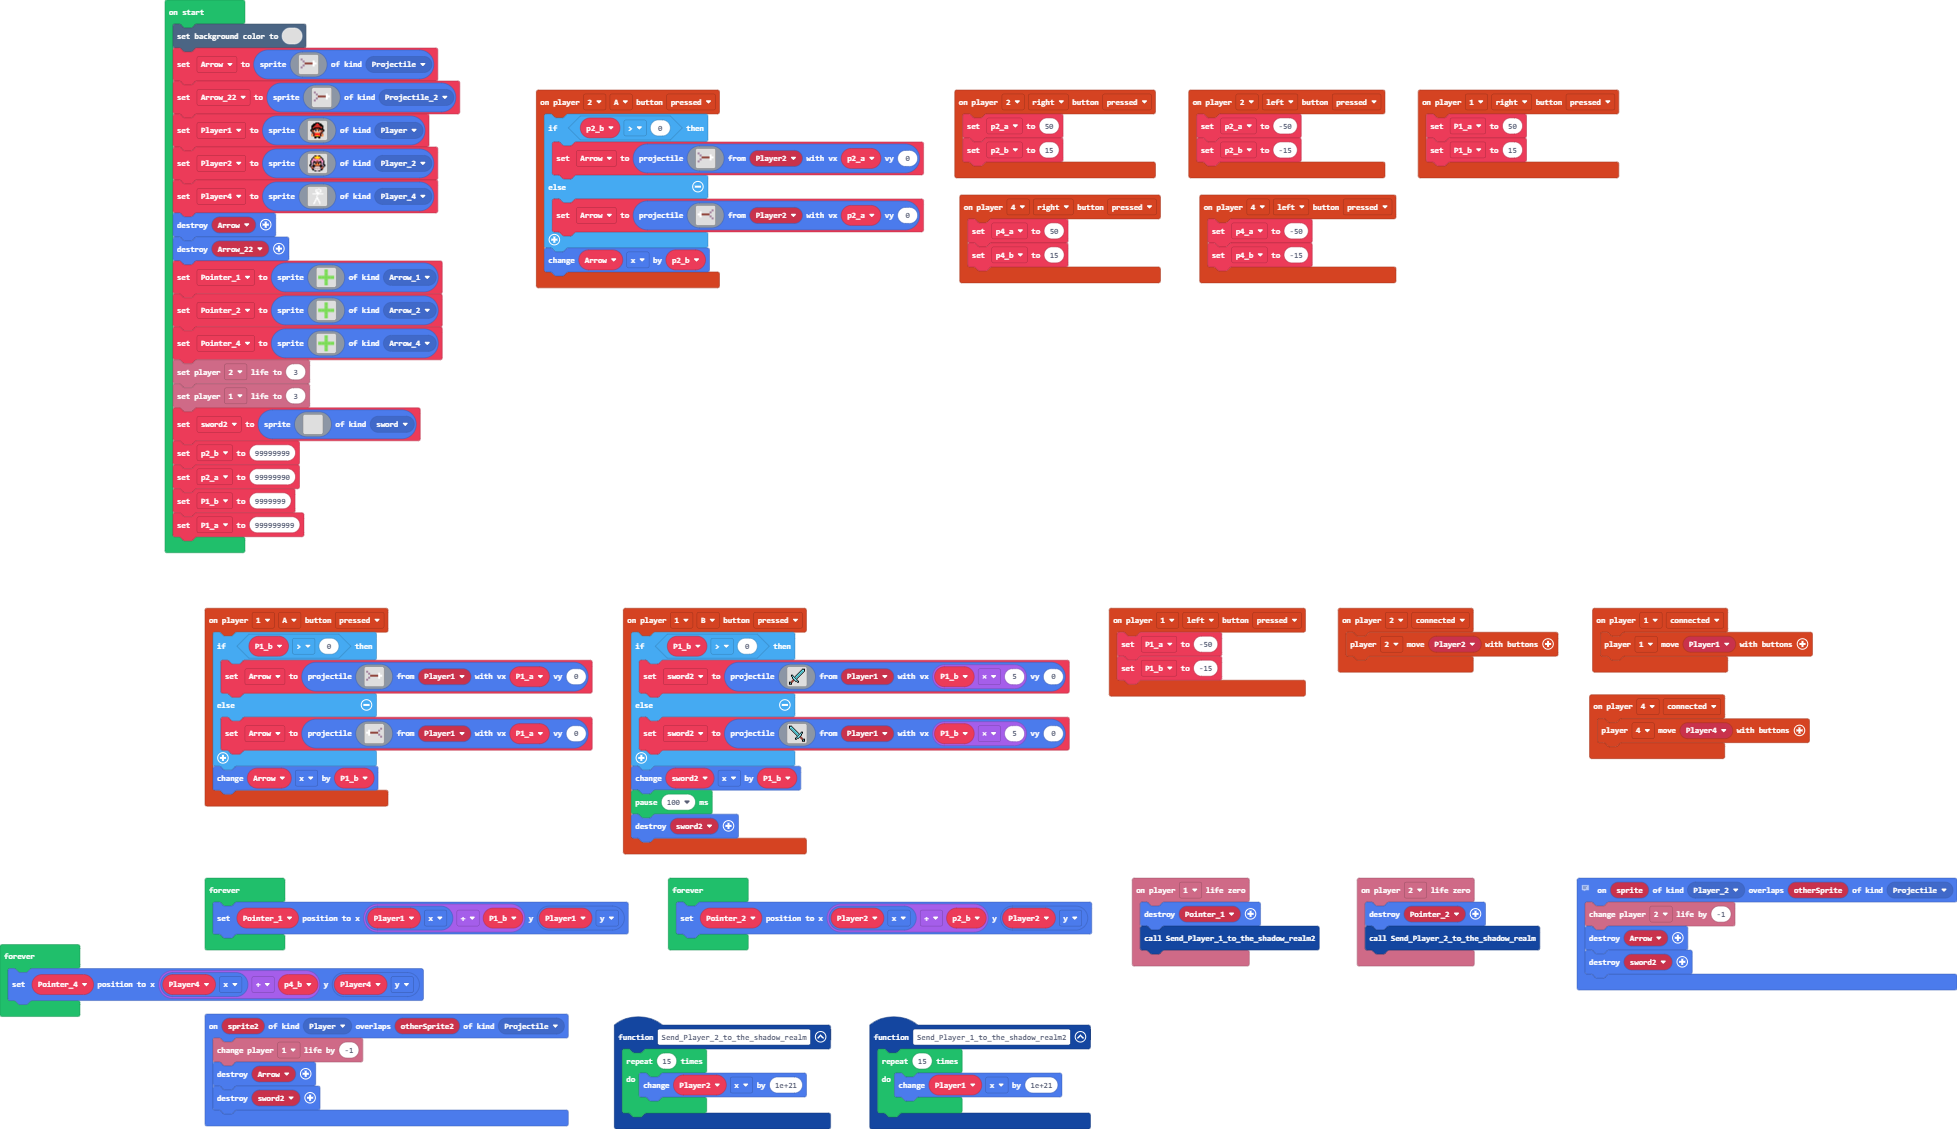
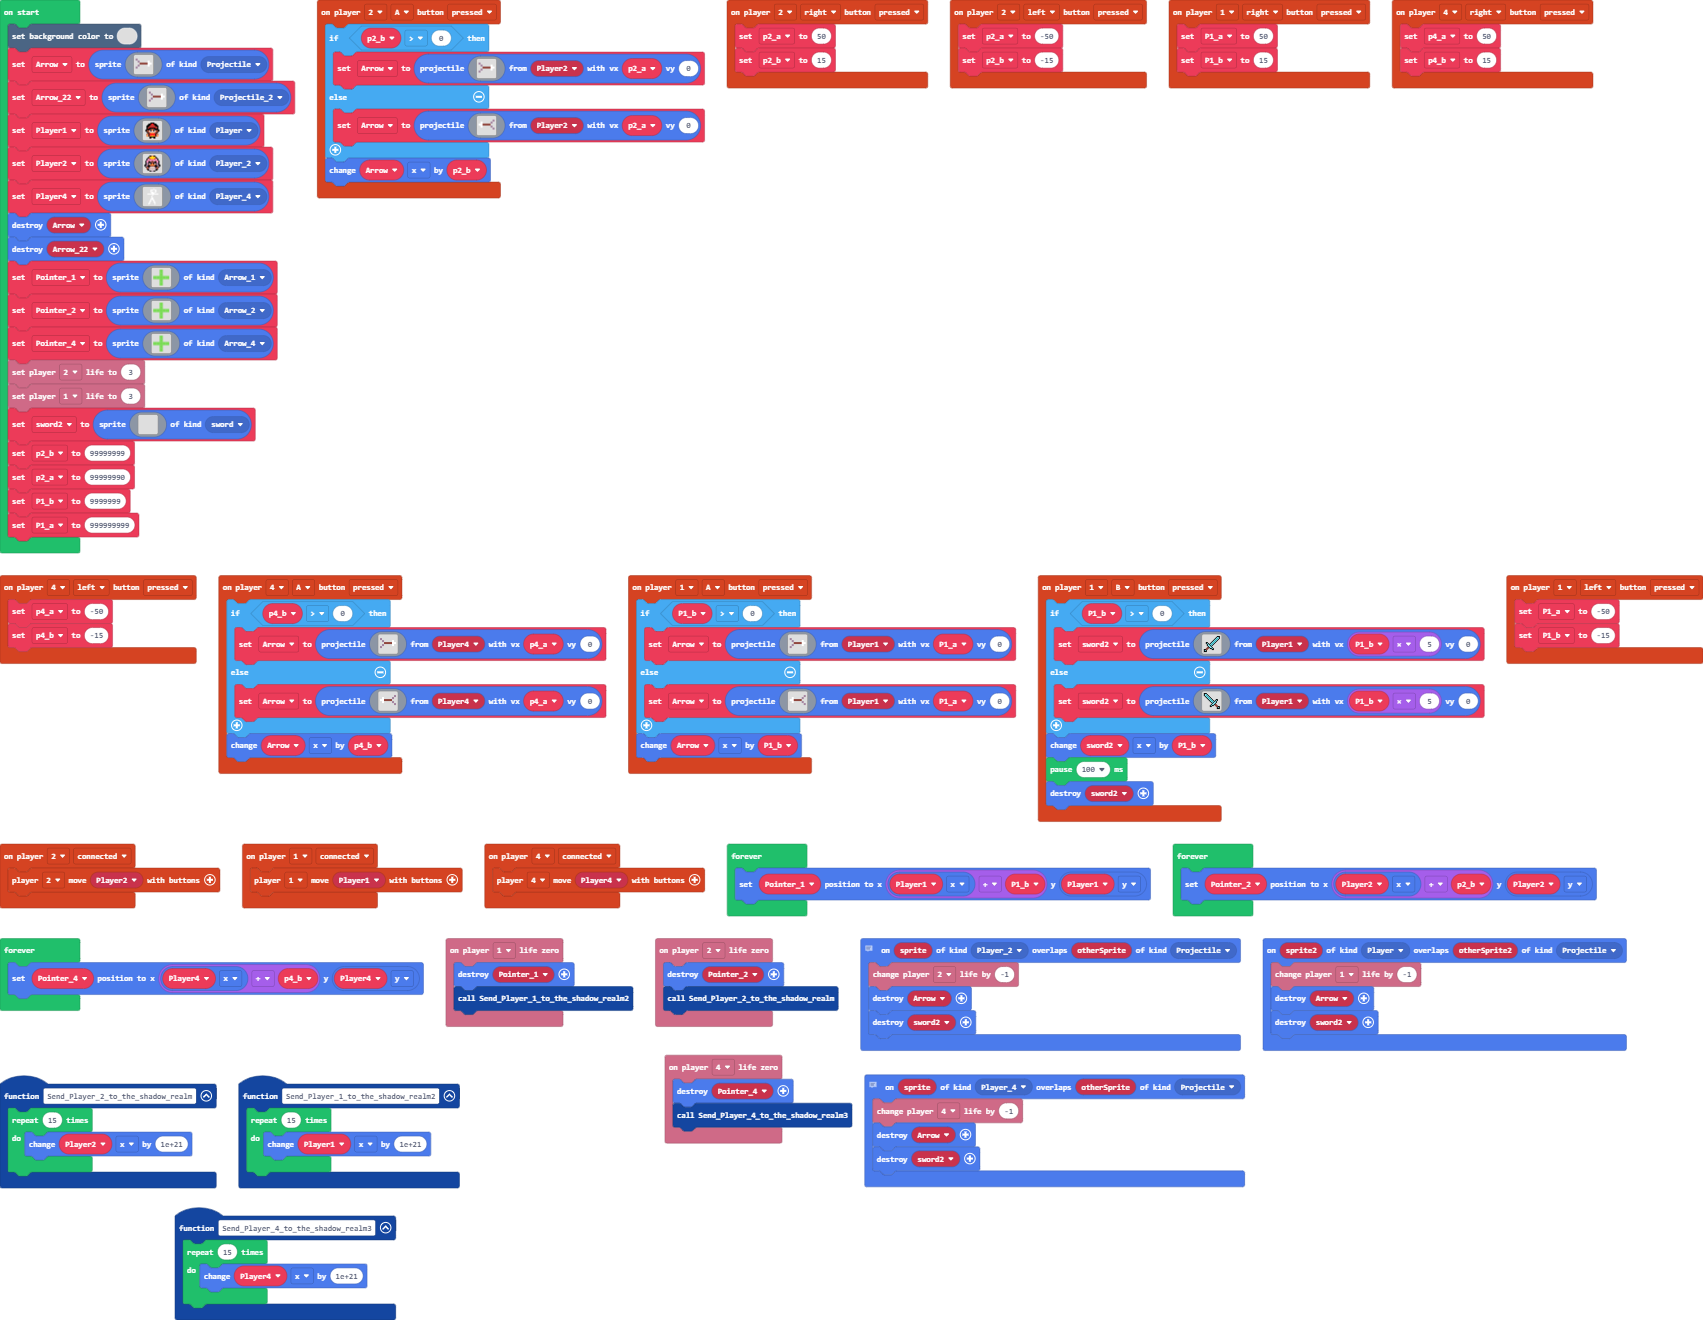
Update main.blocks, main.ts

diff --git a/main.ts b/main.ts
@@ -43,14 +43,29 @@ controller.player2.onButtonEvent(ControllerButton.A, ControllerButtonEvent.Press
     }
     Arrow.x += p2_b
 })
+info.player4.onLifeZero(function () {
+    sprites.destroy(Pointer_4)
+    Send_Player_4_to_the_shadow_realm3()
+})
 function Send_Player_2_to_the_shadow_realm () {
     for (let index = 0; index < 15; index++) {
         Player2.x += 1e+21
     }
 }
+// Todo: Make health pickups
+sprites.onOverlap(SpriteKind.Player_4, SpriteKind.Projectile, function (sprite, otherSprite) {
+    info.player4.changeLifeBy(-1)
+    sprites.destroy(Arrow)
+    sprites.destroy(sword2)
+})
 function Send_Player_1_to_the_shadow_realm2 () {
     for (let index = 0; index < 15; index++) {
         Player1.x += 1e+21
+    }
+}
+function Send_Player_4_to_the_shadow_realm3 () {
+    for (let index = 0; index < 15; index++) {
+        Player4.x += 1e+21
     }
 }
 sprites.onOverlap(SpriteKind.Player, SpriteKind.Projectile, function (sprite2, otherSprite2) {
@@ -61,6 +76,32 @@ sprites.onOverlap(SpriteKind.Player, SpriteKind.Projectile, function (sprite2, o
 controller.player2.onButtonEvent(ControllerButton.Right, ControllerButtonEvent.Pressed, function () {
     p2_a = 50
     p2_b = 15
+})
+controller.player4.onButtonEvent(ControllerButton.A, ControllerButtonEvent.Pressed, function () {
+    if (p4_b > 0) {
+        Arrow = sprites.createProjectileFromSprite(img`
+            . . . . . . . . 
+            b . . . . . . . 
+            . b . . . . 1 . 
+            . . e e e e 1 1 
+            . b . . . . 1 . 
+            b . . . . . . . 
+            . . . . . . . . 
+            . . . . . . . . 
+            `, Player4, p4_a, 0)
+    } else {
+        Arrow = sprites.createProjectileFromSprite(img`
+            . . . . . . . . 
+            . . . . . . . b 
+            . 1 . . . . b . 
+            1 1 e e e e . . 
+            . 1 . . . . b . 
+            . . . . . . . b 
+            . . . . . . . . 
+            . . . . . . . . 
+            `, Player4, p4_a, 0)
+    }
+    Arrow.x += p4_b
 })
 controller.player2.onButtonEvent(ControllerButton.Left, ControllerButtonEvent.Pressed, function () {
     p2_a = -50
@@ -166,13 +207,14 @@ controller.player1.onButtonEvent(ControllerButton.Left, ControllerButtonEvent.Pr
     P1_a = -50
     P1_b = -15
 })
-let p4_b = 0
 let p4_a = 0
+let p4_b = 0
 let P1_a = 0
 let P1_b = 0
 let p2_a = 0
 let p2_b = 0
 let sword2: Sprite = null
+let Pointer_4: Sprite = null
 let Pointer_2: Sprite = null
 let Pointer_1: Sprite = null
 let Player4: Sprite = null
@@ -270,7 +312,7 @@ Pointer_2 = sprites.create(img`
     . . 7 . . 
     . . 7 . . 
     `, SpriteKind.Arrow_2)
-let Pointer_4 = sprites.create(img`
+Pointer_4 = sprites.create(img`
     . . 7 . . 
     . . 7 . . 
     7 7 7 7 7 
